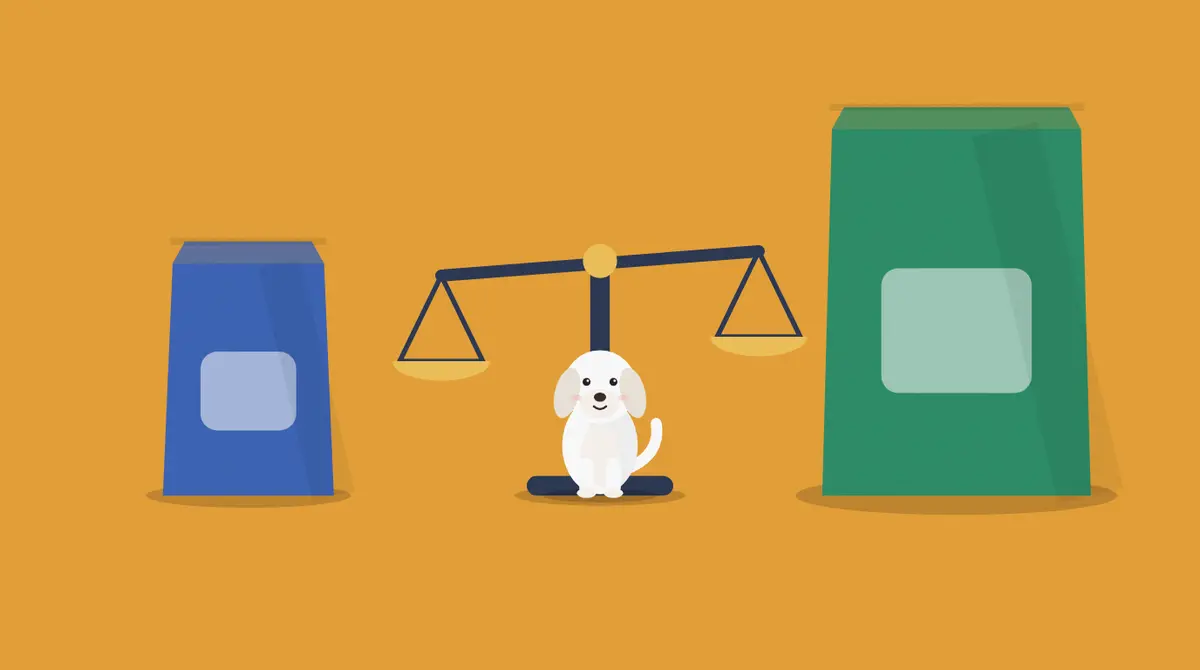
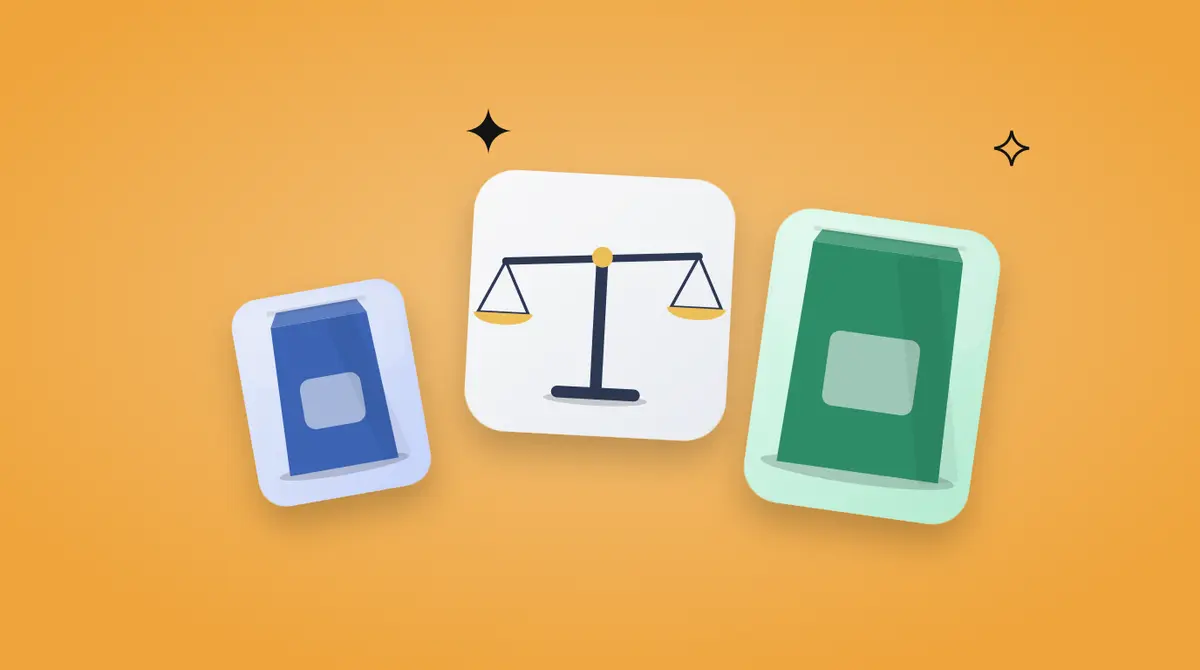
콘텐츠 표지 12장: 떠 있는 카드 + 별 장식 그래픽 (대표 참고 이미지 톤)
Claude-Session: https://claude.ai/code/session_01TcKTz7ncs25YpVZ36UnmVZ

diff --git a/app.js b/app.js
@@ -1585,7 +1585,7 @@ const COVER_TONE = {
 const COVER_IMG = { 'label-read': 1, 'allergy': 1, 'tear-stain': 1, 'food-types': 1, 'price-gap': 1,
   'senior-vs': 1, 'additives': 1, 'carb-grainfree': 1, 'life-stage': 1, 'price-per-kg': 1, 'weight-manage': 1, 'rx-when': 1 };
 function articleCover(a, cls = '') {
-  const src = a.cover || (COVER_IMG[a.id] ? `assets/covers/${a.id}.webp?v=2` : '');
+  const src = a.cover || (COVER_IMG[a.id] ? `assets/covers/${a.id}.webp?v=3` : '');
   if (/^(https?:|assets\/)/.test(src)) return `<span class="ac ${cls}"><img src="${esc(src)}" alt="" loading="lazy"></span>`;
   const [bg, fg] = COVER_TONE[a.cat] || ['var(--surface)', 'var(--ink70)'];
   return `<span class="ac ${cls}" style="--cbg:${bg};--cfg:${fg}" aria-hidden="true">

diff --git a/index.html b/index.html
@@ -71,7 +71,7 @@ const COUNTRY_KO = {KR:'대한민국',CA:'캐나다',US:'미국',FR:'프랑스',
   DE:'독일',IT:'이탈리아',NL:'네덜란드',BE:'벨기에',GB:'영국',JP:'일본',TH:'태국'};
 const SHOP_KO = {coupang:'쿠팡',brand_official:'공식몰',naver:'네이버',other:'판매처'};
 </script>
-<script src="app.js?v=202610091700"></script>
+<script src="app.js?v=202610091800"></script>
 <script src="native.js?v=202610080838"></script>
 </body>
 </html>
